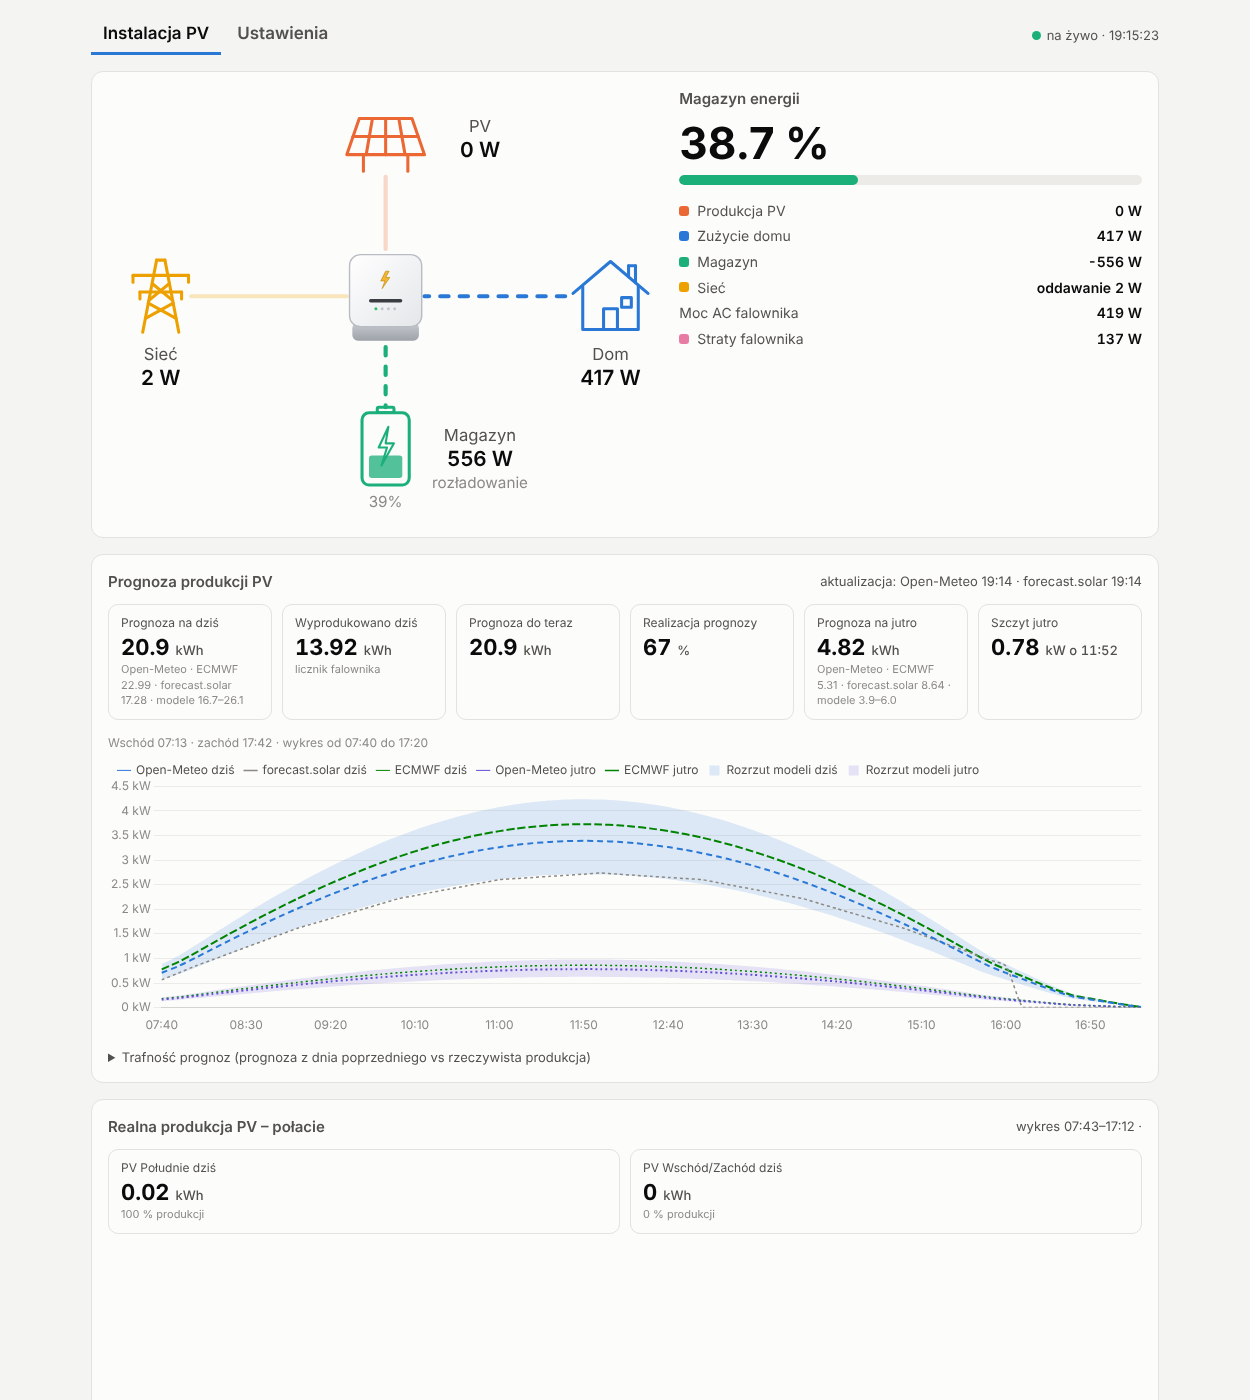
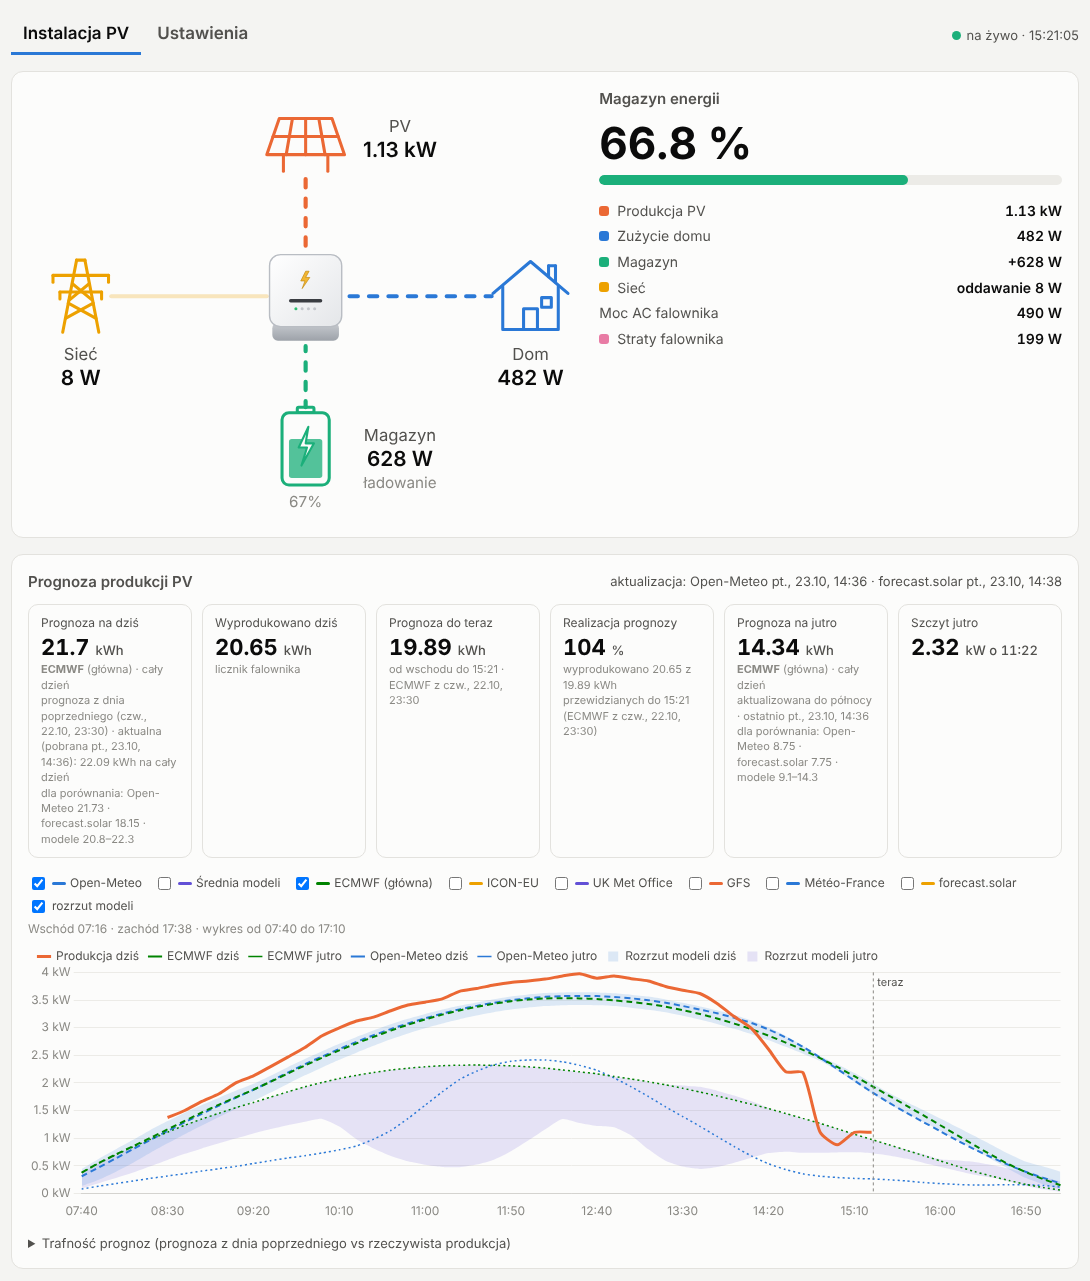
v1.13.0: opcja instalatora - praca w tle jako usluga Windows (start z systemem, restart po awarii), nowe zrzuty ekranu w README
Szczegoly w CHANGELOG.md

diff --git a/web/index.html b/web/index.html
@@ -1316,8 +1316,9 @@ $('cfg-save').onclick = () => saveConfig(false);
 $('cfg-restart').onclick = () => saveConfig(true);
 $('cfg-stop').onclick = async () => {
   if (!confirm('Zamknąć aplikację? Odczyty przestaną być zapisywane do czasu ponownego uruchomienia.')) return;
-  await fetch('/api/shutdown', { method: 'POST' }).catch(() => {});
-  $('cfg-msg').style.color = 'var(--text-2)'; $('cfg-msg').textContent = 'Aplikacja została zamknięta.';
+  const r = await fetch('/api/shutdown', { method: 'POST' }).then(x => x.json()).catch(() => ({ ok: true }));
+  $('cfg-msg').style.color = r.ok ? 'var(--text-2)' : 'var(--eff-bad)';
+  $('cfg-msg').textContent = r.ok ? 'Aplikacja została zamknięta.' : r.error;
 };
 
 fetch('/api/version').then(r => r.json()).then(v => $('ver').textContent = 'v' + v.version).catch(() => {});

diff --git a/app.py b/app.py
@@ -26,7 +26,7 @@ import strategy
 import registers
 import access
 
-__version__ = "1.12.1"
+__version__ = "1.13.0"
 
 # --- konfiguracja (config.ini, sekcja [falownik]) --------------------------
 HOST = config.get("falownik", "host", "192.168.1.100")
@@ -407,7 +407,8 @@ def static_file(name: str):
 
 @app.get("/api/version")
 def version():
-    return {"version": __version__, "db": db.describe(), "data_dir": str(config.DATA_DIR), "title": config.APP_TITLE}
+    return {"version": __version__, "db": db.describe(), "data_dir": str(config.DATA_DIR), "title": config.APP_TITLE,
+            "service": config.SERVICE}
 
 
 @app.get("/api/config")
@@ -452,6 +453,9 @@ def api_discover(payload: dict = Body(default={})):
 @app.post("/api/shutdown")
 def api_shutdown():
     """Zamkniecie aplikacji (przycisk w zakladce Ustawienia)."""
+    if config.SERVICE:
+        return JSONResponse({"ok": False, "error": "aplikacja działa jako usługa Windows – zatrzymasz ją w Usługach Windows "
+                             "(„Sigen PV Monitor”) albo odinstalowując usługę"}, status_code=400)
     threading.Thread(target=lambda: (time.sleep(1), os._exit(0)), daemon=True).start()
     return {"ok": True}
 
@@ -462,6 +466,16 @@ def api_restart():
     def _later():
         import subprocess
         time.sleep(1)
+        if config.SERVICE:              # usluga Windows: restart przez WinSW ("restart!" = z wnetrza uslugi)
+            svc = config.EXE_DIR / "SigenPVMonitor-service.exe"
+            if svc.exists():
+                try:
+                    subprocess.Popen([str(svc), "restart!"], cwd=str(svc.parent), close_fds=True,
+                                     creationflags=0x00000008 | 0x00000200)
+                    time.sleep(30)      # WinSW zatrzyma ten proces
+                except Exception as e:  # noqa: BLE001
+                    print(f"restart uslugi: {e}")
+            os._exit(1)                 # awaryjnie: odzyskiwanie uslugi (sc failureflag) uruchomi aplikacje ponownie
         args = [sys.executable] + (sys.argv[1:] if config.FROZEN else sys.argv)
         args = [a for a in args if a != "--wait-port"] + ["--wait-port", "--no-browser"]
         flags = 0x00000008 | 0x00000200 if sys.platform == "win32" else 0   # DETACHED_PROCESS | NEW_PROCESS_GROUP

diff --git a/main.py b/main.py
@@ -39,7 +39,7 @@ def _port_in_use(port):
 def _message(text):
     """Komunikat dla uzytkownika (okienko w Windows, inaczej konsola)."""
     print(text)
-    if sys.platform == "win32" and config.FROZEN:
+    if sys.platform == "win32" and config.FROZEN and not config.SERVICE:   # usluga nie ma pulpitu - okienko by wisialo
         try:
             import ctypes
             ctypes.windll.user32.MessageBoxW(None, text, config.APP_TITLE, 0x40)
@@ -62,6 +62,9 @@ def main():
                 break
             time.sleep(0.25)
     if _port_in_use(args.port):                 # juz dziala - tylko pokaz strone
+        if config.SERVICE:                      # usluga: zajety port (np. otwarte okno programu) - sprobuj pozniej
+            time.sleep(60)
+            sys.exit(1)
         if open_browser:
             webbrowser.open(url)
         return

diff --git a/config.py b/config.py
@@ -15,6 +15,7 @@ APP_NAME = "SigenPVMonitor"
 APP_TITLE = "Sigen PV Monitor"
 
 FROZEN = getattr(sys, "frozen", False)
+SERVICE = os.environ.get("SIGEN_SERVICE") == "1"      # dziala jako usluga Windows (WinSW, opcja instalatora)
 # pliki aplikacji (index.html, static/) - w .exe rozpakowane do katalogu tymczasowego
 RES_DIR = Path(getattr(sys, "_MEIPASS", Path(__file__).resolve().parent))
 WEB_DIR = RES_DIR / "web"

diff --git a/README.md b/README.md
@@ -7,7 +7,9 @@ i pełna lista odczytów – w przeglądarce, na komputerze i telefonie w sieci 
 > Nieoficjalny projekt open source, **niezwiązany z Sigenergy**. Aplikacja **tylko odczytuje** dane
 > z falownika (Modbus TCP, funkcje 0x03/0x04) – niczego w nim nie zmienia.
 
-![Zrzut ekranu](docs/screenshot.png)
+![Przegląd: przepływy mocy na żywo i prognoza produkcji](docs/screens/01_przeglad.png)
+
+Więcej zrzutów ekranu: [galeria](#zrzuty-ekranu).
 
 ## Co potrafi
 
@@ -33,6 +35,20 @@ i pełna lista odczytów – w przeglądarce, na komputerze i telefonie w sieci 
 - **Wszystkie odczyty falownika** (61 rejestrów) i ustawienia (tylko odczyt) z historią zmian.
 - Baza **SQLite** – darmowa, wbudowana, nic nie trzeba instalować.
 - Wszystkie ustawienia na stronie, w zakładce **Ustawienia**.
+
+## Zrzuty ekranu
+
+| | |
+|---|---|
+| **Produkcja każdej połaci i w miesiącach**<br>![Połacie](docs/screens/02_polacie.png) | **Dzień: liczniki, straty, wykres mocy**<br>![Dzień](docs/screens/04_dzien.png) |
+| **Ceny energii i strategia magazynu (symulacja)**<br>![Ceny i strategia](docs/screens/03_ceny_strategia.png) | **Pstryk (opcjonalnie) i sprawność falownika**<br>![Pstryk i sprawność](docs/screens/05_pstryk_sprawnosc.png) |
+| **Alarmy (AFCI), ustawienia falownika, temperatury**<br>![Alarmy i temperatury](docs/screens/06_alarmy_temperatury.png) | **Zakładka Ustawienia**<br>![Ustawienia](docs/screens/07_ustawienia.png) |
+
+**Telefon / aplikacja Android**
+
+<img src="docs/screens/08_telefon.png" alt="Widok na telefonie" width="320">
+
+Zrzuty pokazują przykładową instalację (10 kW, 3 połacie, magazyn 27 kWh); numer seryjny i nazwy czujników są zmienione.
 
 ## Jak znaleźć adres IP falownika
 
@@ -68,6 +84,10 @@ Po uruchomieniu otworzy się przeglądarka z adresem `http://localhost:8000`.
 
 Przy pierwszym uruchomieniu Windows zapyta o dostęp przez zaporę. Zezwól na sieć prywatną, jeśli chcesz
 otwierać stronę z telefonu (`http://<IP-komputera>:8000`).
+
+Instalator ma też opcję **„Uruchamiaj w tle jako usługę Windows”**: program startuje razem z systemem (także bez
+logowania) i sam się podnosi po awarii. Wymaga jednorazowej zgody administratora; ustawienia i dane zostają w tym samym
+folderze. Usługę zatrzymasz w „Usługach” Windows („Sigen PV Monitor”), a odinstalowanie programu ją usuwa.
 
 Program działa w tle, bez okna. Ponowne kliknięcie skrótu tylko otwiera stronę. Program zamkniesz w zakładce
 Ustawienia przyciskiem **Zamknij aplikację**. Żeby dane zapisywały się bez przerwy, komputer musi być włączony.

diff --git a/CHANGELOG.md b/CHANGELOG.md
@@ -2,6 +2,17 @@
 
 Format wg [Keep a Changelog](https://keepachangelog.com/pl/1.1.0/), wersje wg [SemVer](https://semver.org/lang/pl/).
 
+## [1.13.0] - 2026-10-23
+
+### Dodano
+- Instalator: opcja **„Uruchamiaj w tle jako usługę Windows”** (domyślnie wyłączona, wymaga zgody administratora) –
+  start z systemem także bez logowania, automatyczny restart po awarii (WinSW 2.12, licencja MIT). Dane i ustawienia
+  zostają w folderze użytkownika (`%LOCALAPPDATA%\SigenPVMonitor`). Odinstalowanie programu usuwa też usługę.
+
+### Zmieniono
+- Przy pracy jako usługa: restart z zakładki Ustawienia ponownie uruchamia usługę, a przycisk „Zamknij aplikację”
+  podpowiada, jak zatrzymać usługę.
+
 ## [1.12.1] - 2026-10-23
 
 ### Poprawiono
